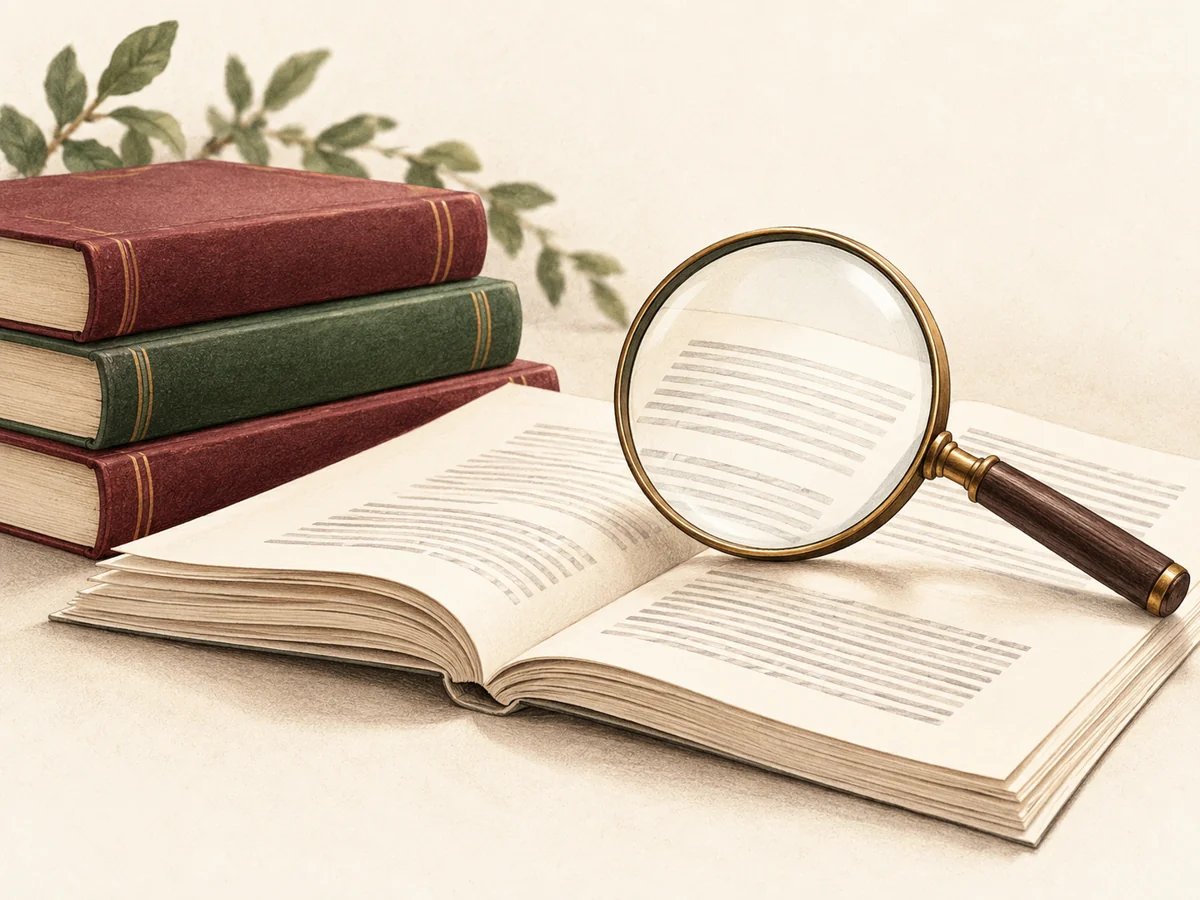
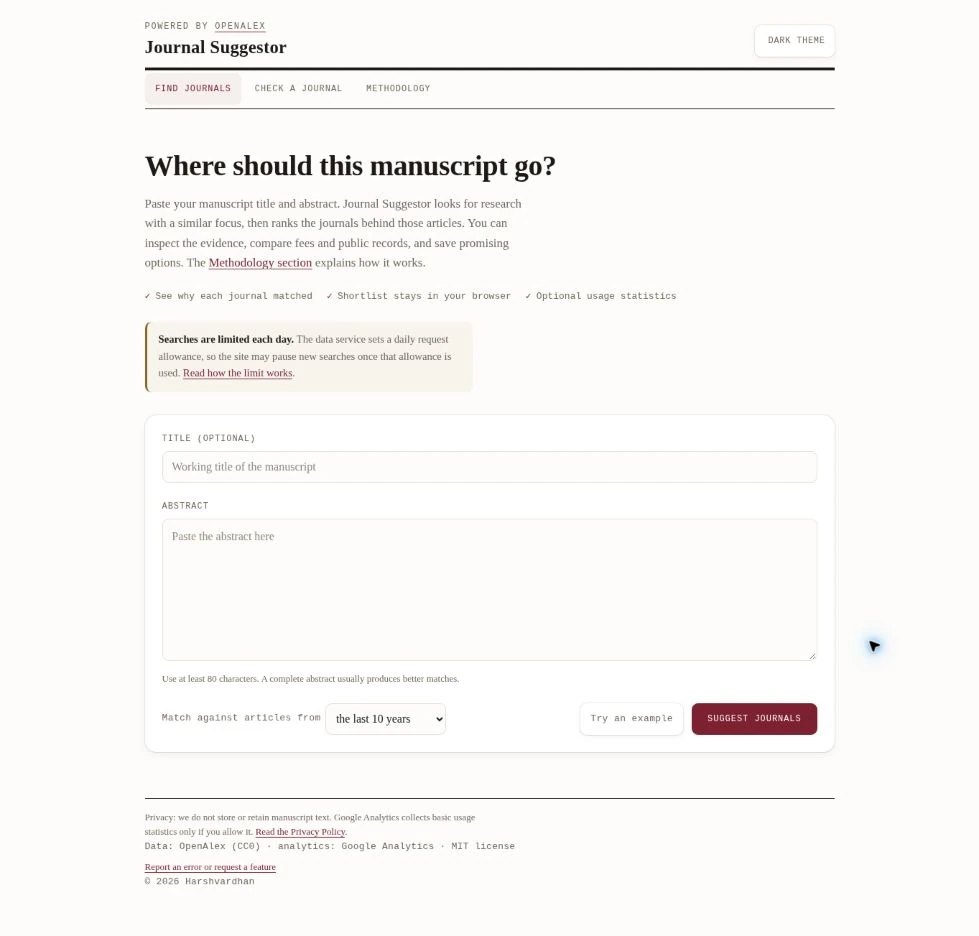
Use real project screenshots and preserve complete images without cropping

diff --git a/layouts/projects/list.html b/layouts/projects/list.html
@@ -24,8 +24,8 @@
       <img src="{{ .RelPermalink }}" alt="{{ $page.Title }}" width="120" height="90" loading="lazy" />
     </a>
     {{- else -}}
-    {{- $thumb := .Fill "240x180 webp" -}}
-    {{- $thumb2x := .Fill "480x360 webp" -}}
+    {{- $thumb := .Fit "240x180 webp" -}}
+    {{- $thumb2x := .Fit "480x360 webp" -}}
     <a href="{{ $page.RelPermalink }}">
       <img src="{{ $thumb.RelPermalink }}"
            srcset="{{ $thumb.RelPermalink }} 1x, {{ $thumb2x.RelPermalink }} 2x"

diff --git a/assets/css/extended/custom.css b/assets/css/extended/custom.css
@@ -557,7 +557,8 @@ a:hover {
 .project-image img {
   width: 120px;
   height: 90px;
-  object-fit: cover;
+  object-fit: contain;
+  background: var(--entry);
   border-radius: 4px;
   border: 1px solid var(--tertiary);
 }
